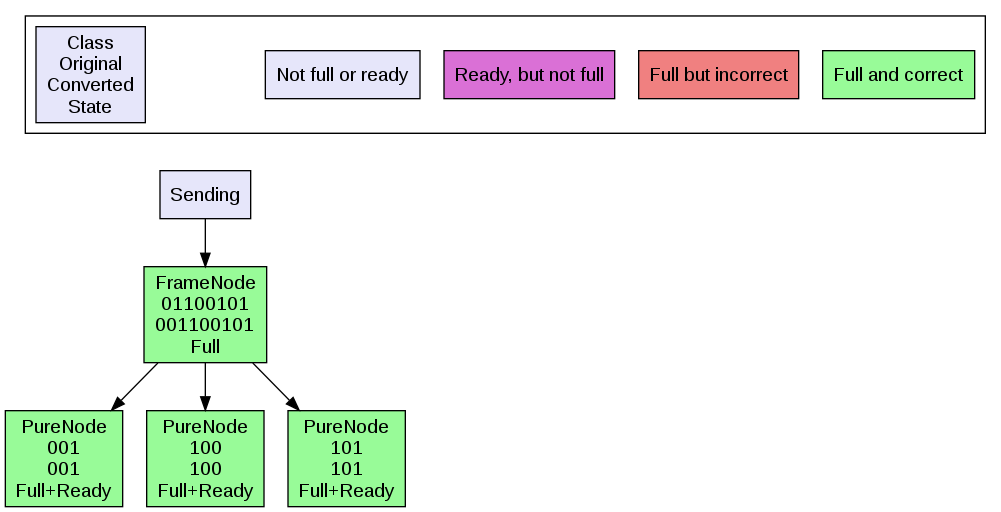
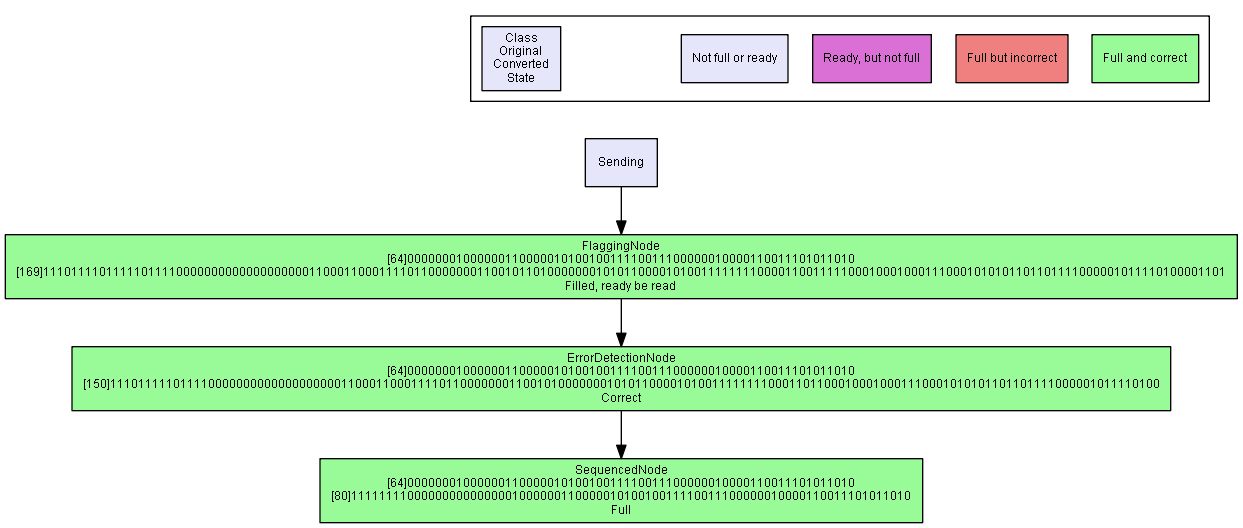
small updates

diff --git a/src/test/unit/NodeTest.java b/src/test/unit/NodeTest.java
@@ -14,7 +14,7 @@ import util.BitSet2;
 public class NodeTest {
 	@Test
 	public void testSequencedNode(){
-		SequencedNode seqNode = new SequencedNode(null, AngelMakerConfig.PACKET_BIT_COUNT, AngelMakerConfig.MESSAGE_BIT_COUNT);
+		SequencedNode seqNode = new SequencedNode(null);
 		BitSet2 data = new BitSet2(new byte[]{1,2,3,4,5,6,7,8});
 		BitSet2 seq = new BitSet2("1100");
 		BitSet2 message = new BitSet2("0111");
@@ -25,7 +25,7 @@ public class NodeTest {
 		assertEquals(seq,seqNode.getSeq());
 		assertEquals(message,seqNode.getMessage());
 		
-		SequencedNode constructed = new SequencedNode(null, AngelMakerConfig.PACKET_BIT_COUNT, AngelMakerConfig.MESSAGE_BIT_COUNT);
+		SequencedNode constructed = new SequencedNode(null);
 		constructed.giveConverted(seqNode.getConverted());
 		assertEquals(data,constructed.getOriginal());
 		assertEquals(seq,constructed.getSeq());

diff --git a/src/test/unit/BitExchangerTest.java b/src/test/unit/BitExchangerTest.java
@@ -52,29 +52,6 @@ public class BitExchangerTest {
 		}
 	}
 	
-	@Test
-	public void testHighSpeedBitExchanger(){
-		HighSpeedBitExchanger e = new HighSpeedBitExchanger();
-		e.givePhysicalLayer(new NullPhysicalLayer());
-		e.giveAMManager(new MemoryRetransmittingManager());
-		e.enable();
-		
-		for(int i=0;i<4;i++){
-			for(int b=0;b<2;b++){
-				for(int a=0;a<2;a++){
-					boolean[] arr = e.extractBitFromInput((byte)i,e.adaptBitToPrevious(((byte)i),b==1,a==1));
-					//System.out.println("Previous: "+Bytes.format((byte)i)+"\t New1: "+b+"\t New2: "+a+"\tResult: "+(arr[0] ? "1" : "0")+(arr.length==2 ? (arr[1] ? "1" : "0") : "x"));
-					
-					assertEquals(b==1,arr[0]);
-					if((byte)(i&1)!=b){
-						assertEquals(2,arr.length);
-						assertEquals(a==1,arr[1]);
-					}
-				}
-			}
-		}
-	}
-	
 	
 	@Test
 	public void testHighSpeedBitExchangerInAction() {

diff --git a/src/common/Graph.java b/src/common/Graph.java
@@ -22,10 +22,11 @@ public class Graph {
 	public static void main(String[] args) {
 		// Make example graph.
 		Node node = new FlaggingNode(null);
+		node.giveOriginal(new BitSet2(new byte[]{1,3,5,39,-100,8,103,90}));
 		((SequencedNode) node.getChildNodes()[0].getChildNodes()[0])
-				.setMessage(new BitSet2("0000"));
+				.setMessage(new BitSet2("0000 0000"));
 		((SequencedNode) node.getChildNodes()[0].getChildNodes()[0])
-				.setSeq(new BitSet2("1111"));
+				.setSeq(new BitSet2("1111 1111"));
 		BitSet2 bs = new BitSet2();
 		for (int i = 0; i < 64; i++) {
 			bs.addAtEnd(Math.random() > 0.5);
